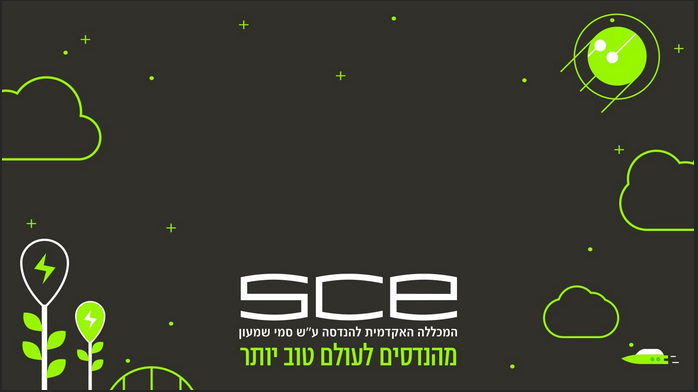
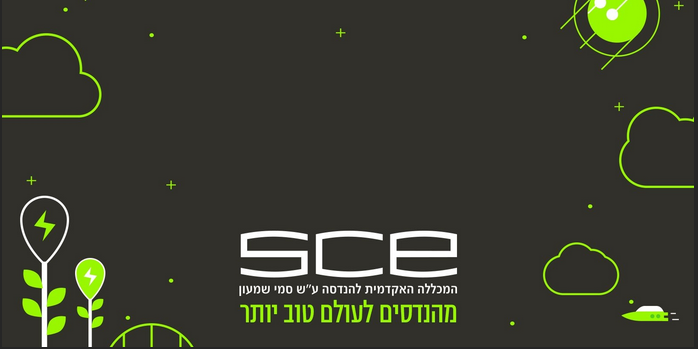
Updated UI and steamline components

diff --git a/frontend/src/components/docs/textEditor.js b/frontend/src/components/docs/textEditor.js
@@ -1,7 +1,8 @@
 import React, { useRef, useEffect, useState } from "react";
-import { Card, Container, Button, Dropdown, Alert} from "react-bootstrap";
+import { Button, Dropdown, Alert, Row, Col } from "react-bootstrap";
 import { Toolbar, Inject, WordExport, DocumentEditorContainerComponent } from '@syncfusion/ej2-react-documenteditor';
 import { fetchDocument, saveDocument, fetchDocsList } from "../../api/document_requests";
+import CardContainer from "../cardContainer";
 
 const TextEditor = () => {
   const [DocsList, setDocsList] = useState([]);
@@ -12,12 +13,18 @@ const TextEditor = () => {
   const mainContainerStyle = {
     all: "unset",
     width: "100vw",
-  };
+    height: "90vw",
+  }
 
   const editorStyle = {
-    width: "100%",
-    height: "95%"
-  };
+    width: "75%",
+    height: "82vh"
+  }
+
+  const buttonStyle = {
+    margin: '10px',
+    width: '100px'
+  }
 
   const documentContainerRef = useRef(null);
 
@@ -37,12 +44,11 @@ const TextEditor = () => {
     }
     fetchDocs();
   }, []);
-  
 
   const saveToDb = async () => {
     if (!titleInput) {
-      console.error('Title cannot be empty')
-      setError('Title cannot be empty')
+      console.error('A title is needed for saving a document')
+      setError('A title is needed for saving a document')
       return;
     } else setError(null)
 
@@ -61,8 +67,8 @@ const TextEditor = () => {
   
   const fetchDoc = async () => {
     if (!selectedDocument) {
-      console.error('No document selected')
-      setError('No document selected')
+      console.error('Please select a document to fetch first')
+      setError('Please select a document to fetch first')
       return;
     } else setError(null)
     try {
@@ -83,32 +89,34 @@ const TextEditor = () => {
   };
 
   return (
-    <Container style={mainContainerStyle} className="d-flex justify-content-center align-items-center">
-      <Card style={{ height: "100vh", width: "100%" }} bg="primary" text="black">
-        <Card.Body>
-          <DocumentEditorContainerComponent height="82vh" width="95%" id="container" style={editorStyle} ref={documentContainerRef}>
+    <CardContainer style={{ ...mainContainerStyle}}>
+      <Row style={{ width: '100%' }}> 
+        {error && <Alert variant="danger" style={{ width: '100%', marginTop: '10px' }}>{error}</Alert>}
+        <Col xs={8} style={{ width: '80%' }}>
+          <DocumentEditorContainerComponent height="82vh" id="container" style={editorStyle} ref={documentContainerRef}>
             <Inject services={[Toolbar, WordExport]} />
           </DocumentEditorContainerComponent>
-          {error && <Alert variant="danger"  style={{width: '95%'}}>{error}</Alert>}
-          <div className="d-flex justify-content-center align-items-center">
-            <Dropdown onSelect={(eventKey) => setSelectedDocument(eventKey)} className="mr-2"  style={{marginTop: '10px'}}>
-              <Dropdown.Toggle variant="primary" id="documentDropdown">
-                {selectedDocument ? selectedDocument : "Select Document"}
-              </Dropdown.Toggle>
-              <Dropdown.Menu>
-                {DocsList.map((docTitle, index) => (
-                  <Dropdown.Item key={index} eventKey={docTitle}>{docTitle}</Dropdown.Item>
-                ))}
-              </Dropdown.Menu>
-            </Dropdown>
-            <input type="text" placeholder="Enter title" value={titleInput} onChange={handleTitleChange}  style={{marginLeft: '10px'}}/>
+        </Col>
+        <Col xs={4} style={{ width: '20%', paddingTop: '20px', backgroundColor: 'white', height: '20%'}} className="d-flex flex-column justify-content-center">
+          <h1 style={{color:'black'}}>This is for fetching and saving document to the database</h1>
+          <Dropdown onSelect={(eventKey) => setSelectedDocument(eventKey)} className="mb-2">
+            <Dropdown.Toggle variant="primary" id="documentDropdown">
+              {selectedDocument ? selectedDocument : "Select Document"}
+            </Dropdown.Toggle>
+            <Dropdown.Menu>
+              {DocsList.map((docTitle, index) => (
+                <Dropdown.Item key={index} eventKey={docTitle}>{docTitle}</Dropdown.Item>
+              ))}
+            </Dropdown.Menu>
+          </Dropdown>
+          <input type="text" placeholder="Title for document you want to save" value={titleInput} onChange={handleTitleChange} className="mb-2"/>
+          <div className="d-flex justify-content-between">
+            <Button onClick={saveToDb} style={buttonStyle}>Save</Button>
+            <Button onClick={fetchDoc} style={buttonStyle}>Fetch</Button>
           </div>
-          <p/>
-          <Button onClick={saveToDb} style={{marginRight: '10px'}}>Save</Button>
-          <Button onClick={fetchDoc}>Fetch</Button>
-        </Card.Body>
-      </Card>
-    </Container>
+        </Col>
+      </Row>
+    </CardContainer>
   );
 };
 

diff --git a/frontend/src/pages/accountInfoPage.js b/frontend/src/pages/accountInfoPage.js
@@ -1,7 +1,7 @@
 import React, { useState, useEffect } from 'react';
-import { Container, Card, Table } from 'react-bootstrap';
+import { Card, Table } from 'react-bootstrap';
 import logoImg from '../assests/sce.jpg';
-
+import CardContainer from '../components/cardContainer';
 function AccountInfoPage() {
   const [accountInfo, setAccountInfo] = useState(null);
 
@@ -9,16 +9,16 @@ function AccountInfoPage() {
     async function fetchData() {
       try {
         let token = localStorage.getItem('token');
-        const response = await fetch('http://localhost:5000/api/utils/decodeValue', {
+        let tokenData = await fetch('http://localhost:5000/api/utils/decodeValue', {
           method: 'POST',
           headers: {
             'Content-Type': 'application/json',
           },
-          body: JSON.stringify({ token }),
+          body: JSON.stringify({token}), 
         });
-        const responseData = await response.json();
-        console.log(responseData.token)
-        setAccountInfo(responseData.token.user)
+        let decodedTokenData = await tokenData.json();
+        console.log(decodedTokenData.user)
+        setAccountInfo(decodedTokenData.user)
       } catch (error) {
         console.error('Decryption of value failed:', error.message);
       }
@@ -27,42 +27,38 @@ function AccountInfoPage() {
   }, []);
 
   return (
-    <Container className="d-flex justify-content-center align-items-center vh-100" style={{ paddingBottom: "20vh"}}>
-      <Card className="mt-3" bg="primary" text="white" style={{ width: "500px" }}>
-        <Card.Body>
-          <Card.Title style={{ fontSize: "30px" }}>
-            <img src={logoImg} alt="My App Logo" style={{ width: 'auto', height: '100px', marginBottom: "40px", marginTop: "30px" }}/>
-          </Card.Title>
-          <h2>Account Details</h2>
-          {accountInfo && (
-            <Table striped bordered hover>
-              <tbody>
-                <tr>
-                  <td>ID</td>
-                  <td>{accountInfo.id}</td>
-                </tr>
-                <tr>
-                  <td>Email</td>
-                  <td>{accountInfo.email}</td>
-                </tr>
-                <tr>
-                  <td>First Name</td>
-                  <td>{accountInfo.fname}</td>
-                </tr>
-                <tr>
-                  <td>Last Name</td>
-                  <td>{accountInfo.lname}</td>
-                </tr>
-                <tr>
-                  <td>Role</td>
-                  <td>{accountInfo.role}</td>
-                </tr>
-              </tbody>
-            </Table>
-          )}
-        </Card.Body>
-      </Card>
-    </Container>
+    <CardContainer className="d-flex justify-content-center align-items-center vh-100" style={{ paddingBottom: "20vh", marginTop: '30px', width: '600px'}}>
+      <Card.Title style={{ fontSize: "30px" }}>
+        <img src={logoImg} alt="My App Logo" style={{ width: 'auto', height: '100px', marginBottom: "40px", marginTop: "30px" }}/>
+      </Card.Title>
+      <h2>Account Details</h2>
+      {accountInfo && (
+        <Table striped bordered hover>
+          <tbody>
+            <tr>
+              <td>ID</td>
+              <td>{accountInfo.id}</td>
+            </tr>
+            <tr>
+              <td>Email</td>
+              <td>{accountInfo.email}</td>
+            </tr>
+            <tr>
+              <td>First Name</td>
+              <td>{accountInfo.fname}</td>
+            </tr>
+            <tr>
+              <td>Last Name</td>
+              <td>{accountInfo.lname}</td>
+            </tr>
+            <tr>
+              <td>Role</td>
+              <td>{accountInfo.role}</td>
+            </tr>
+          </tbody>
+        </Table>
+      )}
+    </CardContainer>
   );
 }
 

diff --git a/frontend/src/pages/StudentHomePage.js b/frontend/src/pages/StudentHomePage.js
@@ -3,7 +3,6 @@ import { UserContext } from '../context/userContext';
 import { Col, Row, Button } from 'react-bootstrap';
 import MyRequestsList from '../components/MyRequestsList';
 import RequestForm from '../components/forms/RequestForm';
-import backgroundImage from '../assests/background.png'; // Import the background image
 import './Editor.css';
 
 function StudentHomePage() {
@@ -23,23 +22,22 @@ function StudentHomePage() {
 
     const actionPanel = () => {
         return (
-            <div className='d-flex flex-column gap-2'>
-                <Button onClick={toggleEditorVisibility} className='btn btn-primary'>Create new request</Button>
+            <div className='d-flex flex-column gap-2' style={{margin: "10px"}}>
+                <Button onClick={toggleEditorVisibility} className='btn btn-primary'>Make a new request</Button>
                 <Button onClick={showMyRequests} className='btn btn-primary'>My requests</Button>
-                <Button className='btn btn-primary'>My authorizations</Button>
+                <Button className='btn btn-primary'>My Requests Status </Button>
             </div>
         );
     };
-
     return (
-        <div style={{ backgroundImage: `url(${backgroundImage})`, backgroundSize: 'cover', backgroundPosition: 'center', minHeight: '100vh' }}>
+        <div>
             <div className="mt-0">
                 <Row>
                     <Col md={2}>{actionPanel()}</Col>
                     <Col md={8}>
                         <div className="right-panel">
-                            {isRequestFormVisible && <RequestForm />} {/* Render editor only when visible */}
-                            {isMyRequestsVisible && <MyRequestsList requests={userAuthoredDocuments} />} {/* Render My Requests only when visible */}
+                            {isRequestFormVisible && <RequestForm />} 
+                            {isMyRequestsVisible && <MyRequestsList requests={userAuthoredDocuments} />}
                         </div>
                     </Col>
                 </Row>

diff --git a/frontend/src/pages/MainPage.js b/frontend/src/pages/MainPage.js
@@ -1,9 +1,51 @@
-import React from 'react';
-import LoginCard from '../components/loginCard';
+import React, { useEffect } from 'react';
+import { Link, useNavigate } from 'react-router-dom';
+import { Card } from 'react-bootstrap';
+import backgroundImage from '../assests/LoginPage.png'; // Import the background image
+import logoImg from '../assests/sce.jpg'; // Import the logo image
+import CardContainer from '../components/cardContainer';
 
 function MainPage() {
+  const navigate = useNavigate();
+
+  useEffect(() => {
+    const checkLoggedIn = async () => {
+      try {
+        const token = localStorage.getItem('token');
+        if (token) {
+          navigate('/student');
+        } else {
+          console.log('No token found:');
+        }
+      } catch (error) {
+        console.error('Network error while checking token status:', error);
+      }
+    };
+    checkLoggedIn();
+  }, [navigate]);
+
   return (
-    <LoginCard/>
+    <div style={{
+      backgroundImage: `url(${backgroundImage})`,
+      backgroundSize: 'cover',
+      backgroundPosition: 'center',
+      minHeight: '100vh',
+      display: 'flex',
+      justifyContent: 'center',
+      alignItems: 'flex-start',
+    }}>
+      <CardContainer style={{ width: '500px', padding: '20px' }}>
+        <Card.Title>
+          <img src={logoImg} alt="My App Logo" style={{ width: 'auto', height: '125px', marginBottom: "40px" }} />
+          <br />SCE Document Manager
+        </Card.Title>
+        <Card.Text>Please sign in or sign up to continue.</Card.Text>
+        <div>
+          <Link to="/login" className="btn btn-primary me-3">Login</Link>
+          <Link to="/signup" className="btn btn-secondary">Sign Up</Link>
+        </div>
+      </CardContainer>
+    </div>
   );
 }
 

diff --git a/frontend/src/App.js b/frontend/src/App.js
@@ -11,10 +11,11 @@ import NavBarSwitch from './components/navbars/NavBarSwitch';
 import AccountInfoPage from './pages/accountInfoPage';
 import ViewTextPage from './pages/ViewTextPage';
 import RequestForm from './components/forms/RequestForm';
+import backgroundImage from './assests/background.png';
 
 function App() {
   return (
-    <div className="App">
+    <div className="App"  style={{ backgroundImage: `url(${backgroundImage})`, backgroundSize: 'cover', backgroundPosition: 'center' }}>
       <Router>
         <NavBarSwitch />
         <Routes>

diff --git a/frontend/src/components/cardContainer.js b/frontend/src/components/cardContainer.js
@@ -1,0 +1,16 @@
+import React from 'react';
+import { Container, Card } from 'react-bootstrap';
+
+const CardContainer = ({ children, style }) => {
+  return (
+    <Container style={{ ...style }}>
+      <Card bg="primary" text="white" className="text-center">
+        <Card.Body>
+          {children}
+        </Card.Body>
+      </Card>
+    </Container>
+  );
+};
+
+export default CardContainer;

diff --git a/frontend/src/pages/editorPage.js b/frontend/src/pages/editorPage.js
@@ -2,11 +2,8 @@ import React from 'react';
 import TextEditor from '../components/docs/textEditor';
 
 function EditorPage() {
-  const style = {
-    // border: "10px solid black"
-  }
   return (
-    <div style={style}>
+    <div>
         <TextEditor/> 
     </div>
   );
